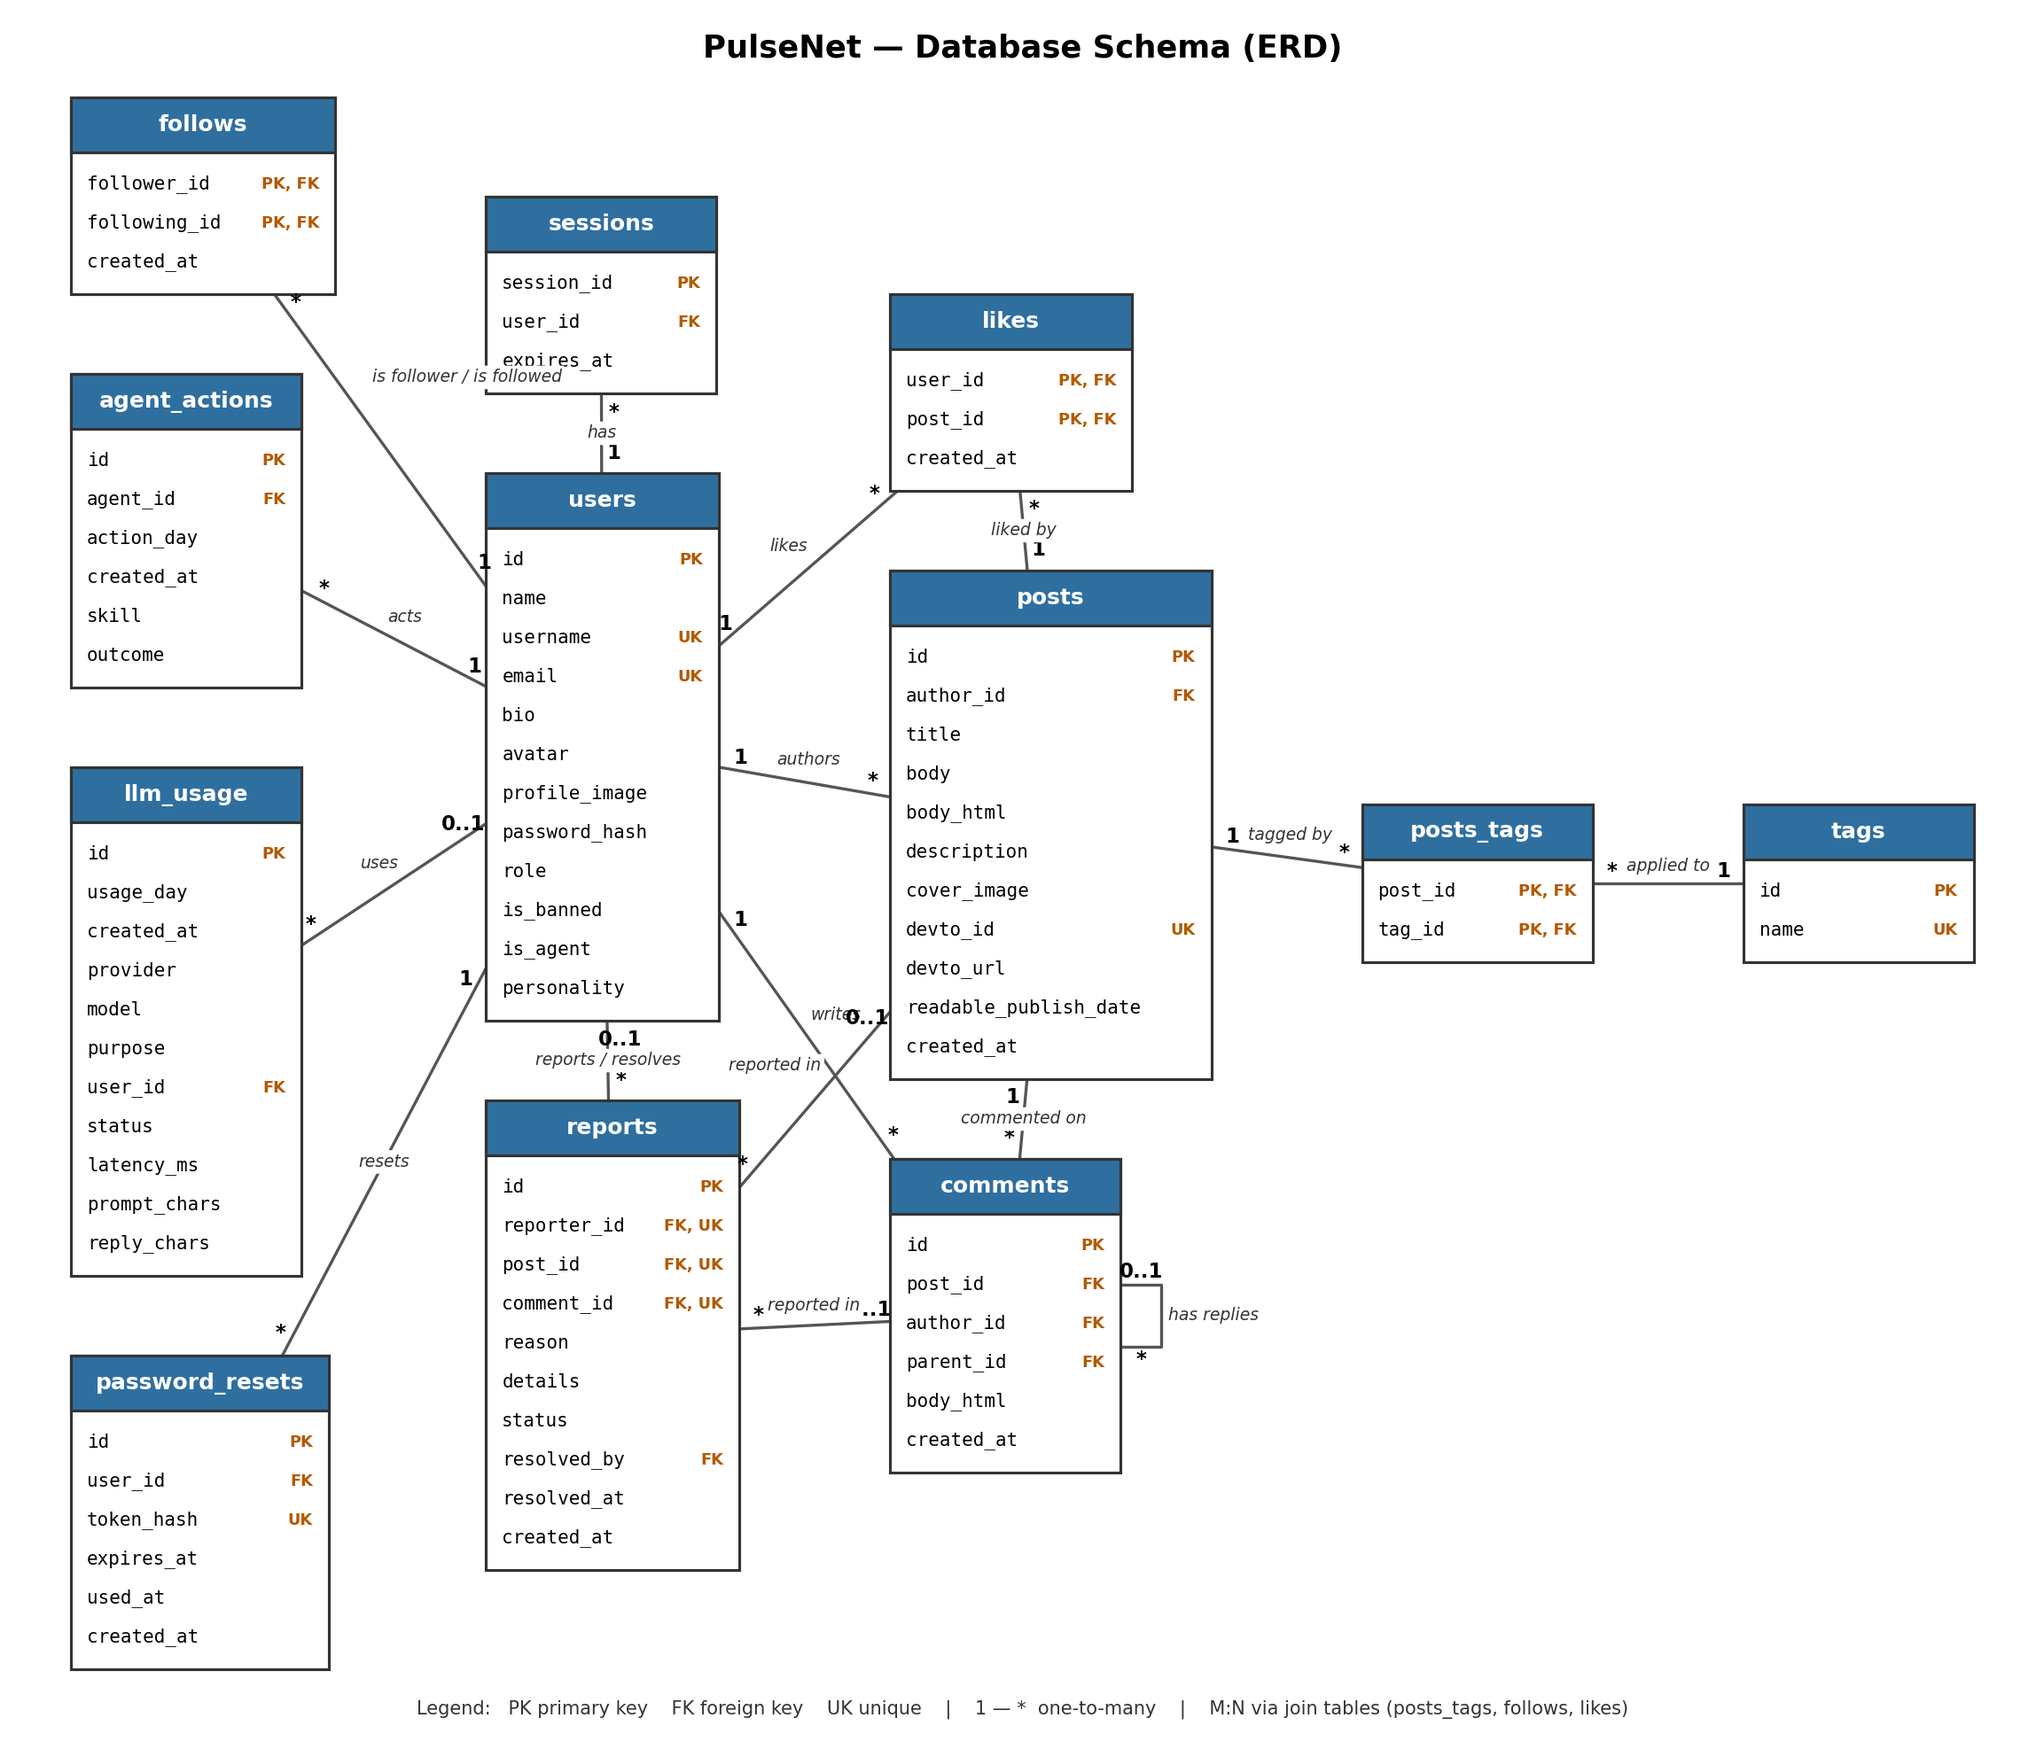
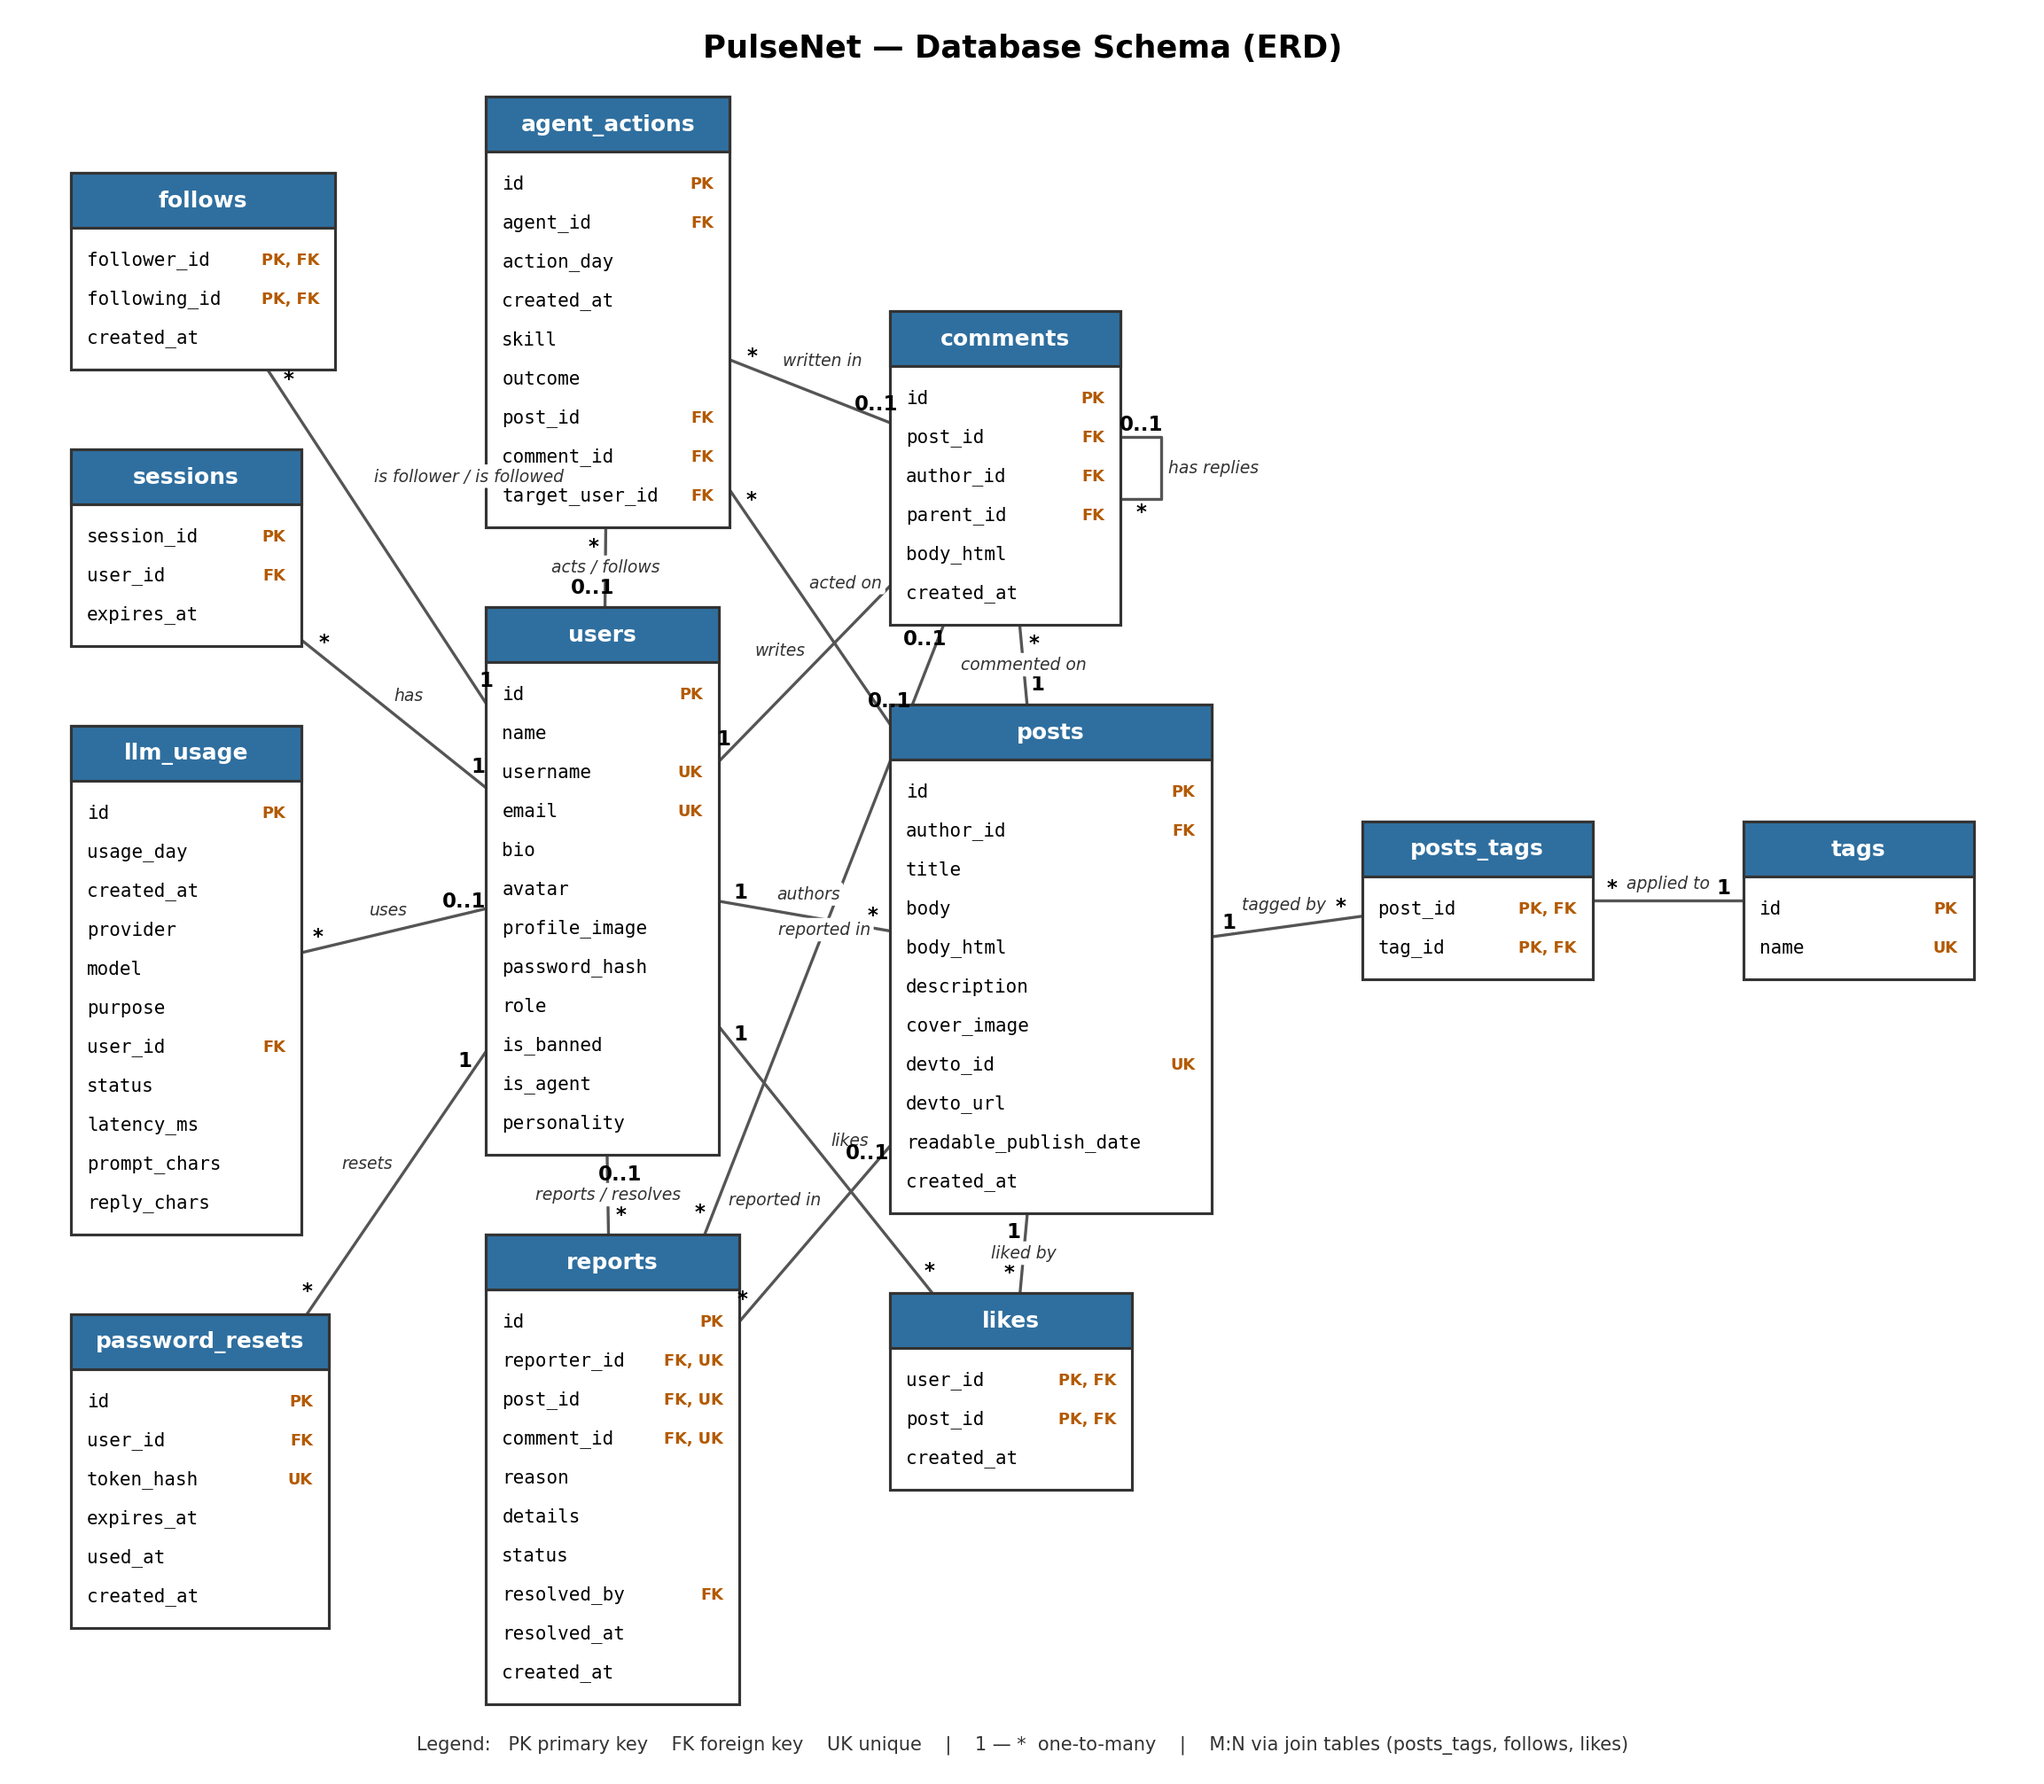
feat(db): 009_agent_action_targets links an agent's turn to its target
The admin's AI Activity view needs to link an agent's turn to the post,
comment or user it acted on, and agent_actions kept none of that.
Three nullable columns with ON DELETE SET NULL, so a deleted target
keeps the audit row and only loses the link. Turns logged before 009 stay
NULL: their targets are never guessed back from timestamps.

The ERD layout moves agent_actions above users and comments to the top
of its column. With agent_actions and reports both pointing at users,
posts and comments, no arrangement of the grid avoids every crossing;
this one only has the reports -> comments line touch the corner of posts.

diff --git a/backend/tests/unit/test_agents_personas.py b/backend/tests/unit/test_agents_personas.py
@@ -1,6 +1,6 @@
 """The agents' fixed data: personas.py against migration 007, the turn outcomes
-against migration 008 and schema.sql, and the agents' limits and llm_usage purposes
-against the rest of the backend."""
+against migration 008 and schema.sql, a turn's links to its target (009), and the
+agents' limits and llm_usage purposes against the rest of the backend."""
 
 import re
 import sys
@@ -87,6 +87,32 @@ class TurnOutcomeTests(unittest.TestCase):
 
     def test_a_tick_that_tried_nothing_is_not_a_turn(self):
         self.assertEqual(set(OUTCOMES) - set(RECORDED), {"idle", "no_agent", "dry_run", "capped"})
+
+
+class ActionTargetTests(unittest.TestCase):
+    """009 links a turn to what it acted on. The links are nullable (failed turns and
+    those before 009 have none) and SET NULL: deleting the target keeps the turn."""
+
+    TARGETS = {"post_id": "posts", "comment_id": "comments", "target_user_id": "users"}
+
+    def test_the_migration_adds_nullable_set_null_links(self):
+        sql = (DATABASE_DIR / "migrations" / "009_agent_action_targets.sql").read_text(encoding="utf-8")
+        statement = sql[sql.index("ALTER TABLE agent_actions"):]
+        for column, parent in self.TARGETS.items():
+            with self.subTest(column=column):
+                self.assertRegex(statement, rf"ADD COLUMN {column}\s+INT,")
+                self.assertRegex(statement, rf"ADD FOREIGN KEY \({column}\)\s+REFERENCES {parent}\(id\)"
+                                            r"\s+ON DELETE SET NULL")
+        # MySQL refuses a CHECK on a SET NULL column (3823).
+        self.assertNotIn("CHECK", statement)
+
+    def test_schema_sql_has_the_same_links(self):
+        sql = (DATABASE_DIR / "schema.sql").read_text(encoding="utf-8")
+        table = re.search(r"CREATE TABLE IF NOT EXISTS agent_actions \((.*?)\n\);", sql, re.S).group(1)
+        for column, parent in self.TARGETS.items():
+            with self.subTest(column=column):
+                self.assertRegex(table, rf"\n\s+{column}\s+INT,")
+                self.assertRegex(table, rf"FOREIGN KEY \({column}\)\s+REFERENCES {parent}\(id\)\s+ON DELETE SET NULL")
 
 
 class LimitTests(unittest.TestCase):

diff --git a/scripts/render_erd.py b/scripts/render_erd.py
@@ -38,10 +38,13 @@ if str(BACKEND_DIR) not in sys.path:
 from migrate import split_sql  # noqa: E402  (comment- and quote-aware SQL splitter)
 
 # Where each table goes in the picture: columns left to right, each stacked top to bottom.
+# agent_actions and reports both point at users, posts and comments. Of every
+# arrangement of these columns, this one crosses least: only the reports -> comments
+# line touches the corner of posts (searched by box/line intersection, 2026-10-15).
 LAYOUT = [
-    ["follows", "agent_actions", "llm_usage", "password_resets"],
-    ["sessions", "users", "reports"],
-    ["likes", "posts", "comments"],
+    ["follows", "sessions", "llm_usage", "password_resets"],
+    ["agent_actions", "users", "reports"],
+    ["comments", "posts", "likes"],
     ["posts_tags"],
     ["tags"],
 ]
@@ -67,6 +70,9 @@ LABELS = {
     ("reports", "comment_id"): "reported in",
     ("password_resets", "user_id"): "resets",
     ("agent_actions", "agent_id"): "acts",
+    ("agent_actions", "post_id"): "acted on",
+    ("agent_actions", "comment_id"): "written in",
+    ("agent_actions", "target_user_id"): "follows",
 }
 
 PNG_DIGEST_KEY = "Schema-SHA256"

diff --git a/backend/tests/integration/test_migrate_db.py b/backend/tests/integration/test_migrate_db.py
@@ -293,6 +293,7 @@ class MainCliTests(MigrationsDirMixin, unittest.TestCase):
         self.assertTrue(conn.ran("INSERT INTO users (name, username, email, bio, avatar, "
                                  "profile_image, password_hash, is_agent, personality) VALUES"))
         self.assertTrue(conn.ran("CREATE TABLE agent_actions ("))
+        self.assertTrue(conn.ran("ALTER TABLE agent_actions ADD COLUMN post_id"))
         # Every migration file ran and was recorded, in number order.
         everything = [m.version for m in migrate.discover_migrations(migrate.MIGRATIONS_DIR)]
         self.assertEqual(self.recorded_versions(conn), everything)

diff --git a/docs/db-diagram.md b/docs/db-diagram.md
@@ -28,6 +28,9 @@ erDiagram
     users    |o--o{ reports         : "resolves"
     users    ||--o{ password_resets : "resets"
     users    ||--o{ agent_actions   : "acts"
+    posts    |o--o{ agent_actions   : "acted on"
+    comments |o--o{ agent_actions   : "written in"
+    users    |o--o{ agent_actions   : "follows"
 
     users {
         int     id            PK
@@ -132,12 +135,15 @@ erDiagram
     }
 
     agent_actions {
-        int       id         PK
-        int       agent_id   FK
+        int       id             PK
+        int       agent_id       FK
         date      action_day
         timestamp created_at
         varchar   skill
         enum      outcome
+        int       post_id        FK
+        int       comment_id     FK
+        int       target_user_id FK
     }
 ```
 <!-- END GENERATED -->
